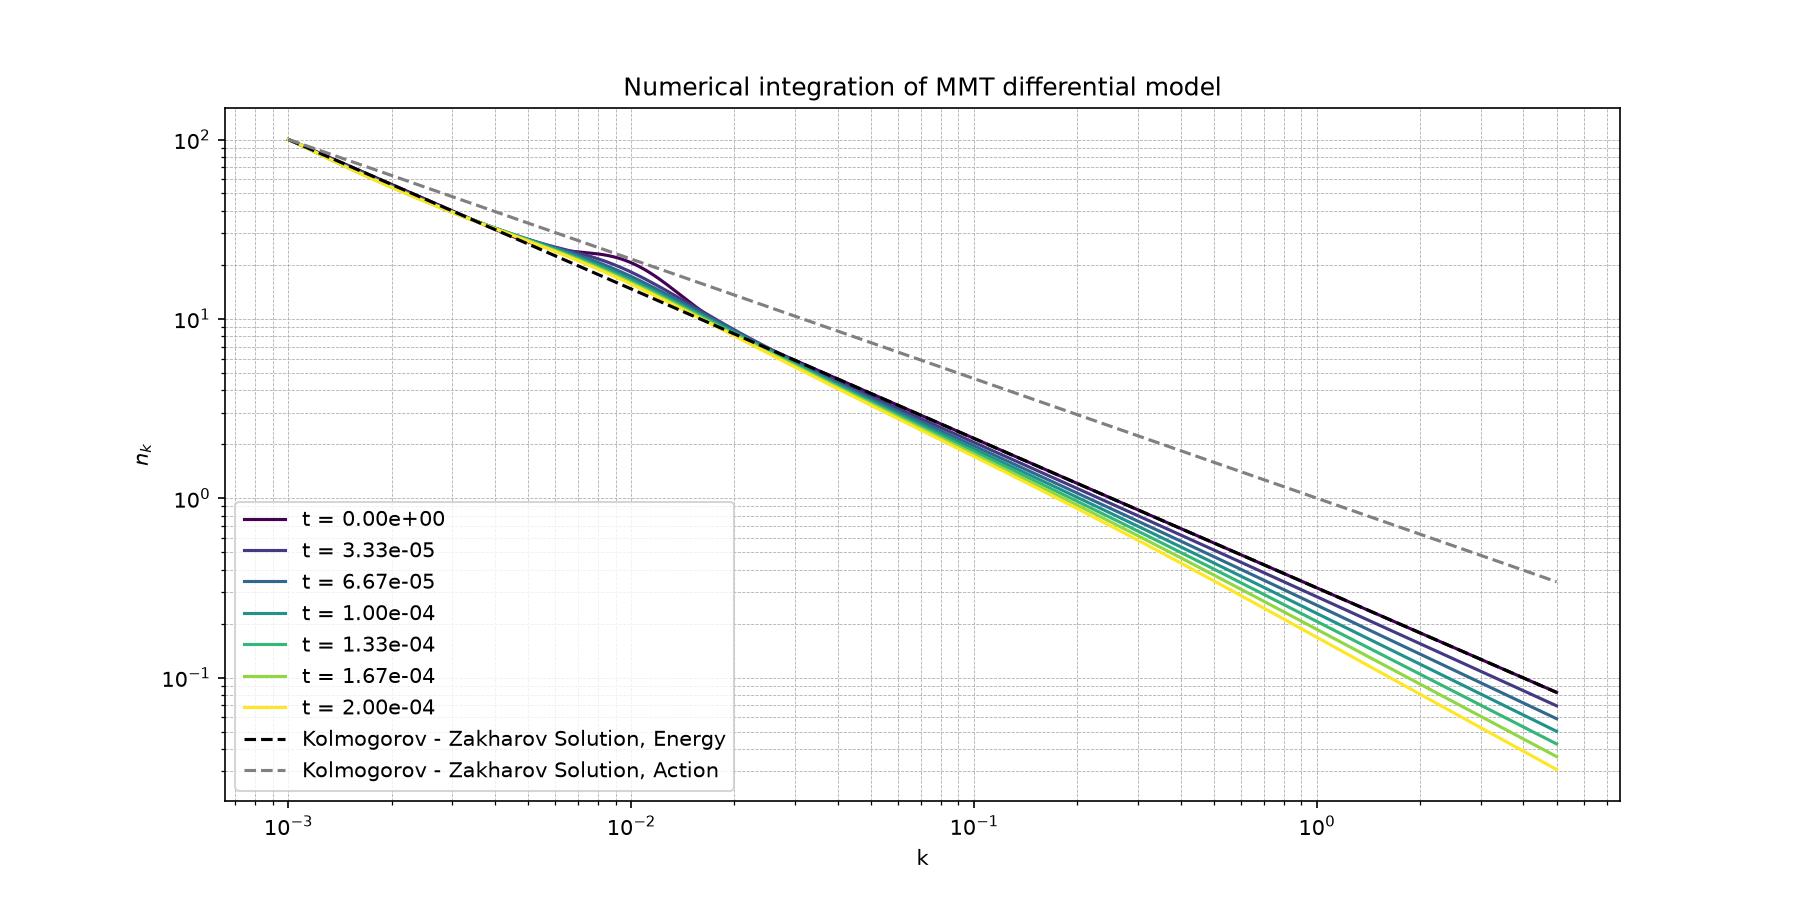
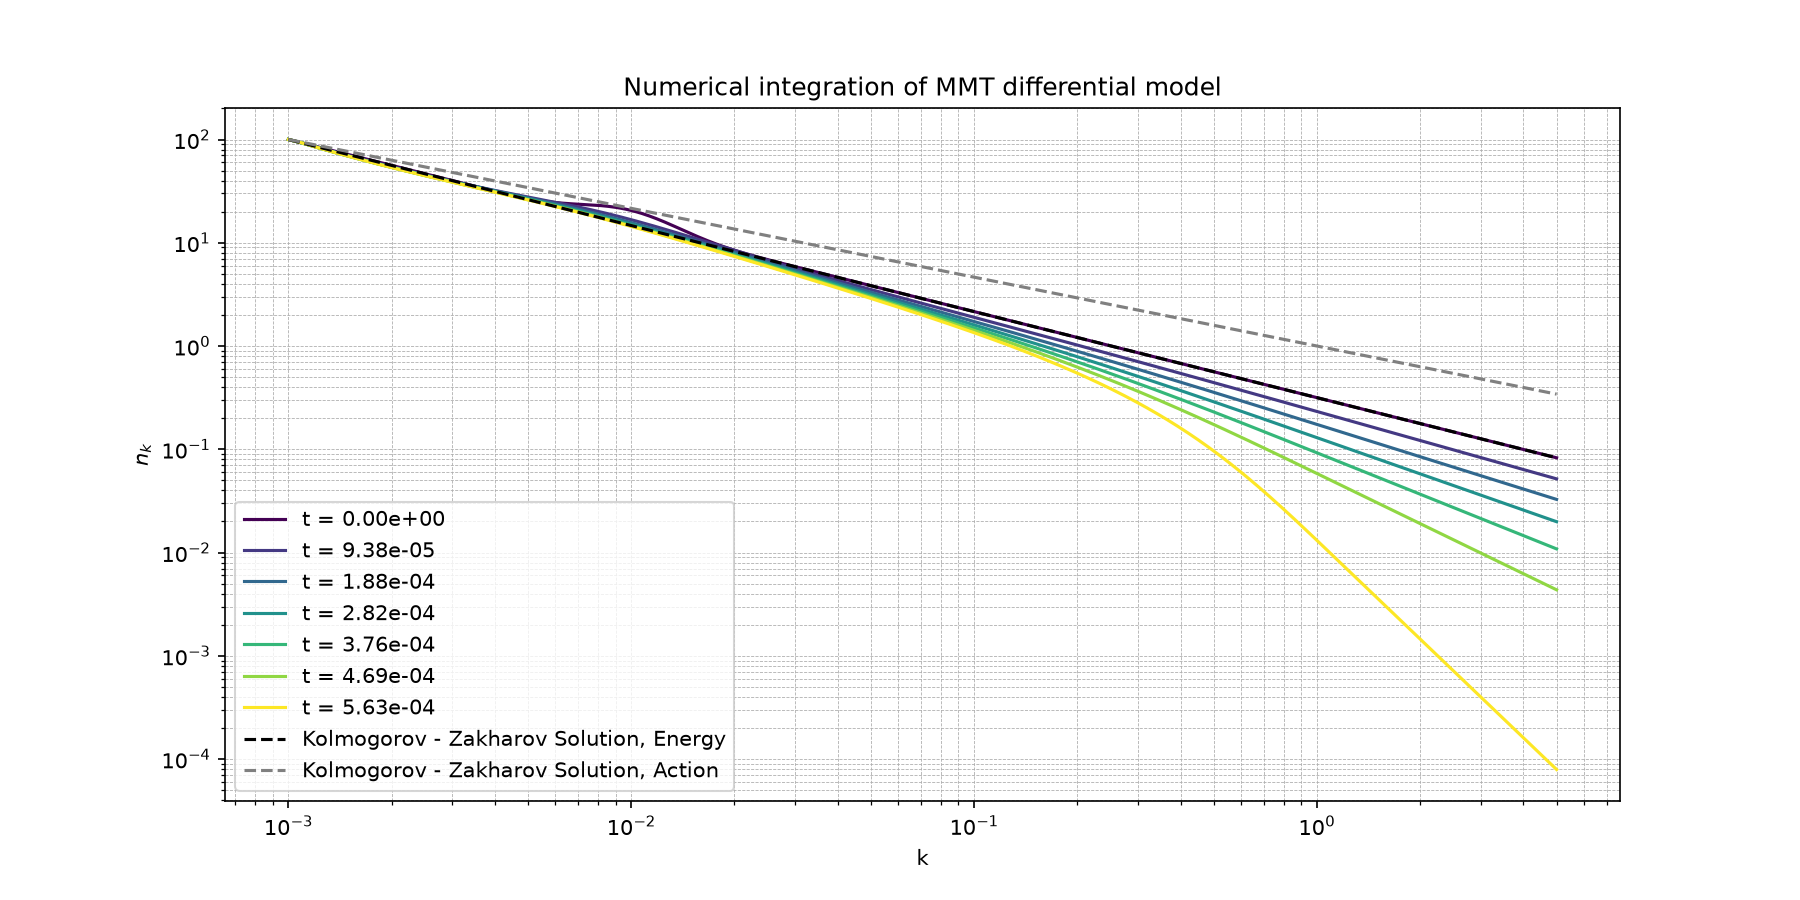
Update simulation time range for Gaussian bump integration and modify output image

diff --git a/main_DAM.py b/main_DAM.py
@@ -35,7 +35,7 @@ ts, ns = integrate_chunked(
 print(".............. Simulation ongoing ..............")
 
 tsg, nsg = integrate_chunked(
-    rhs, n_k_gaus, (0.0, 2e-4), dt_chunk=1e-7,
+    rhs, n_k_gaus, (0.0, 1), dt_chunk=1e-7,
     apply_bc_func=apply_bc,
     bc_args=(k, n_left_fix_g, 6, 90, 4),
     rhs_args=(k, n_left_fix_g, dlnk, eta1, eta2),
